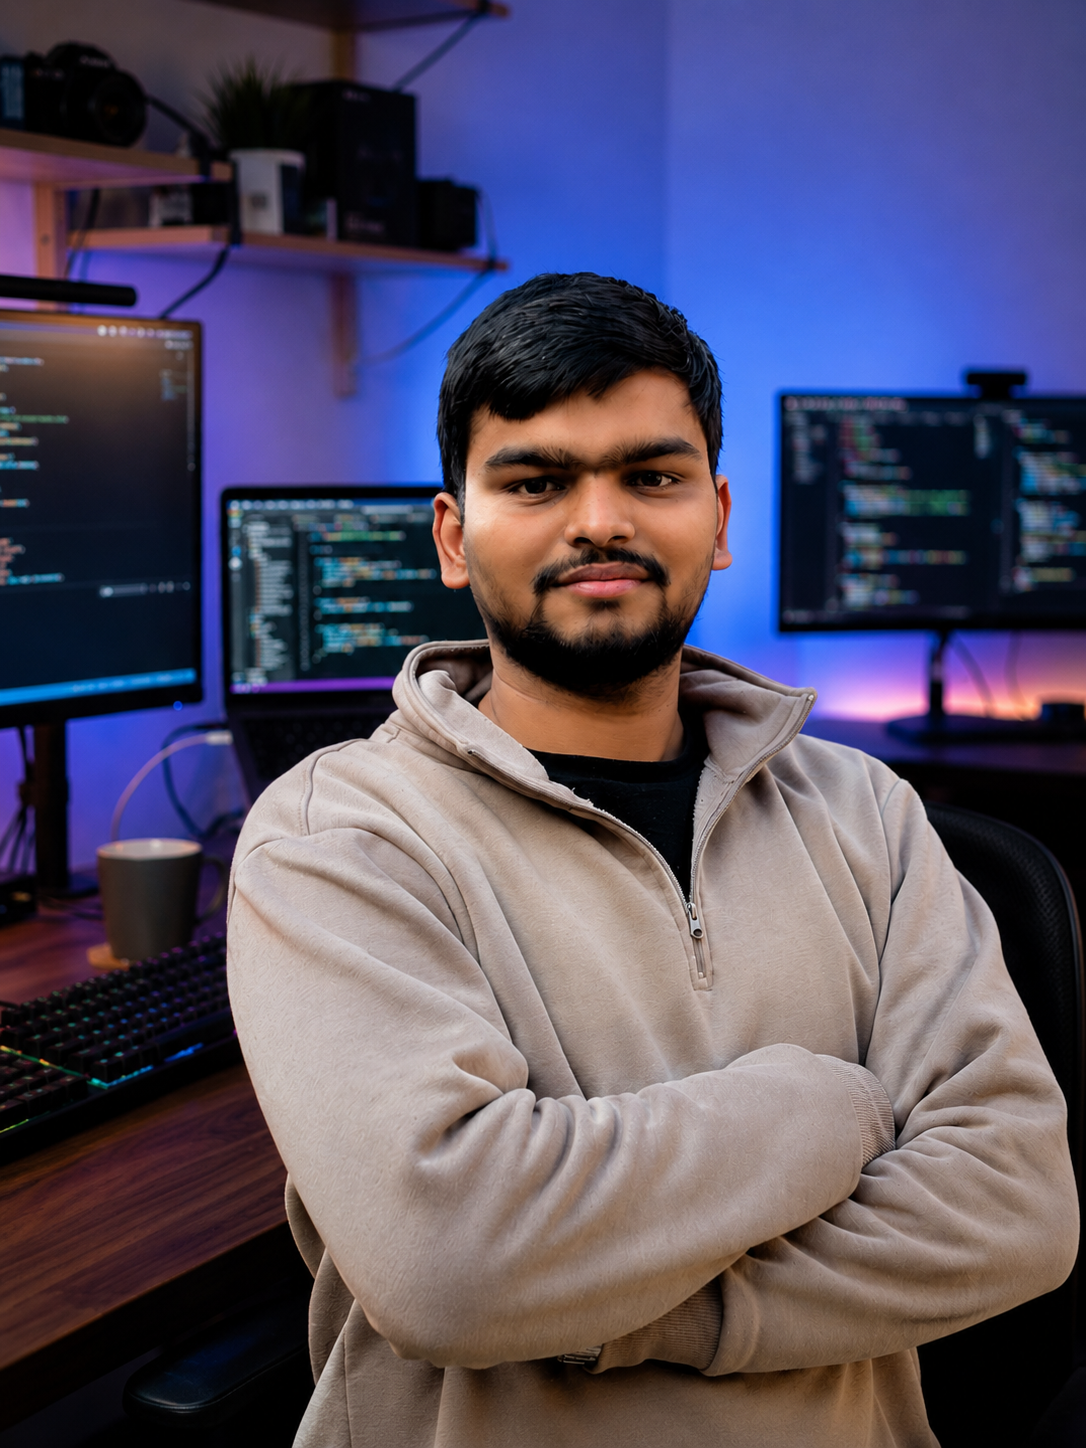
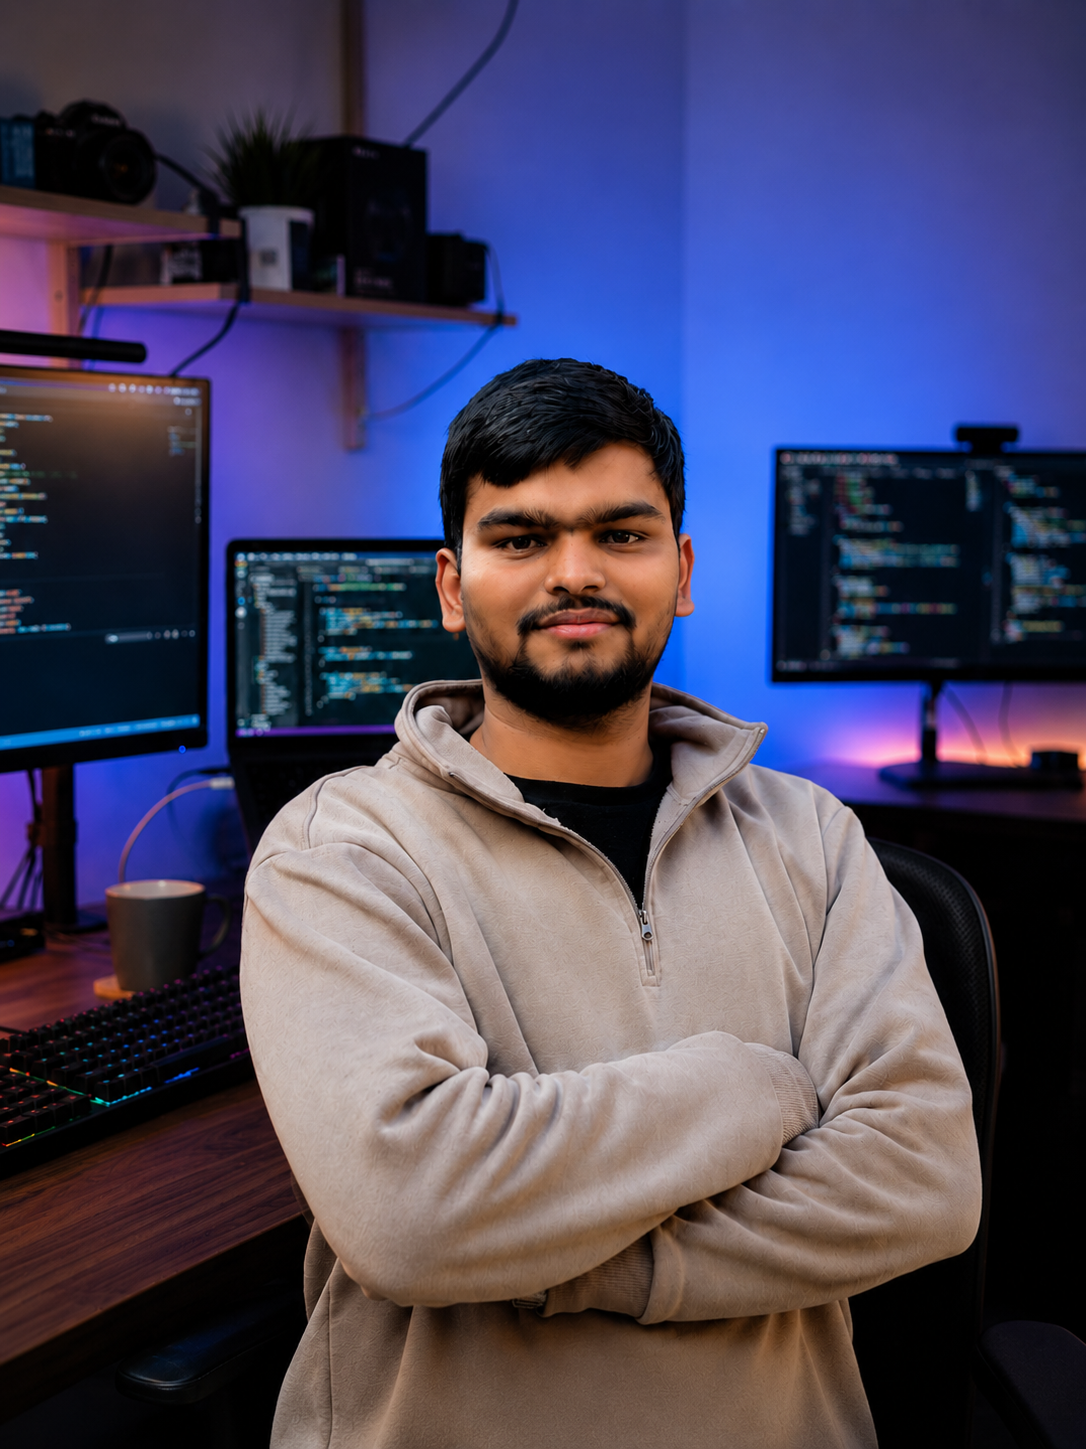
Update portfolio content and UI improvements

diff --git a/src/components/Hero.jsx b/src/components/Hero.jsx
@@ -2,7 +2,8 @@ import React, { useState, useEffect } from 'react';
 import { motion } from 'framer-motion';
 import { ArrowRight, Download } from 'lucide-react';
 import ParticleBackground from './ParticleBackground';
-
+import { SiLeetcode } from "react-icons/si";
+import { FaLinkedinIn } from "react-icons/fa";
 const ROLES = ["SAP Trainee", "Full Stack Developer", "Problem Solver"];
 
 export default function Hero() {
@@ -71,24 +72,45 @@ export default function Hero() {
             </span>
           </h2>
           <p className="text-base sm:text-lg text-slate-600 dark:text-slate-400 max-w-xl mb-8 leading-relaxed">
-            A technology enthusiast working at the intersection of enterprise solutions and modern web technologies. I specialize in SAP systems and Full Stack web applications, bridging data and design to create high-impact products.
+            I'm a passionate Full Stack Developer focused on creating modern, scalable, and user-centric digital solutions. My expertise spans web application development, AI-powered automation, and enterprise technologies, enabling me to build products that are both technically robust and visually engaging. I enjoy solving real-world problems through clean architecture, efficient code, and innovative thinking, turning ideas into impactful experiences that drive business and user success.
           </p>
 
-          <div className="flex flex-col sm:flex-row gap-4">
-            <button
-              onClick={handleScrollToProjects}
-              className="px-6 py-3.5 bg-blue-600 hover:bg-blue-500 text-white font-medium rounded-xl flex items-center justify-center gap-2 transition-all shadow-lg shadow-blue-500/25 hover:shadow-blue-500/35 cursor-pointer"
-            >
-              View Projects <ArrowRight size={18} />
-            </button>
-            <a
-              href="/Sahil_Kumar_Resume.pdf"
-              download="Sahil_Kumar_Resume.pdf"
-              className="px-6 py-3.5 glass hover:bg-slate-100 dark:hover:bg-slate-900 border border-slate-200 dark:border-slate-800 text-slate-700 dark:text-slate-200 font-medium rounded-xl flex items-center justify-center gap-2 transition-all cursor-pointer"
-            >
-              Download Resume <Download size={18} />
-            </a>
-          </div>
+         <div className="flex flex-wrap gap-3">
+  <button
+    onClick={handleScrollToProjects}
+    className="px-5 py-3 bg-blue-600 hover:bg-blue-500 text-white font-medium rounded-xl flex items-center justify-center gap-2 transition-all shadow-lg shadow-blue-500/25 hover:shadow-blue-500/35 cursor-pointer whitespace-nowrap"
+  >
+    View Projects <ArrowRight size={16} />
+  </button>
+
+  <a
+    href="https://www.linkedin.com/in/YOUR_USERNAME"
+    target="_blank"
+    rel="noopener noreferrer"
+    className="px-5 py-3 bg-[#0A66C2]/10 border border-[#0A66C2]/50 text-[#0A66C2] hover:bg-[#0A66C2] hover:text-white font-medium rounded-xl flex items-center justify-center gap-2 transition-all duration-300 hover:-translate-y-1 hover:shadow-lg hover:shadow-[#0A66C2]/30 cursor-pointer whitespace-nowrap"
+  >
+    <FaLinkedinIn size={16} />
+    LinkedIn
+  </a>
+
+  <a
+    href="https://leetcode.com/u/sahil_0905/"
+    target="_blank"
+    rel="noopener noreferrer"
+    className="px-5 py-3 bg-[#FFA116]/10 border border-[#FFA116]/50 text-[#FFA116] hover:bg-[#FFA116] hover:text-black font-medium rounded-xl flex items-center justify-center gap-2 transition-all duration-300 hover:-translate-y-1 hover:shadow-lg hover:shadow-[#FFA116]/30 cursor-pointer whitespace-nowrap"
+  >
+    <SiLeetcode size={16} />
+    LeetCode
+  </a>
+
+  <a
+    href="/resume.pdf"
+    download="resume.pdf"
+    className="px-5 py-3 glass hover:bg-slate-100 dark:hover:bg-slate-900 border border-slate-200 dark:border-slate-800 text-slate-700 dark:text-slate-200 font-medium rounded-xl flex items-center justify-center gap-2 transition-all cursor-pointer whitespace-nowrap"
+  >
+    Resume <Download size={16} />
+  </a>
+</div>
         </motion.div>
 
         {/* Right profile graphic section */}
@@ -107,7 +129,7 @@ export default function Hero() {
  <img
   src="/profile.png"
   alt="Sahil Kumar Profile Photo"
-  className="w-full h-full object-cover scale-90 object-center transition-transform duration-700 group-hover:scale-95"
+  className="w-full h-full object-cover scale-90 object-center transition-transform duration-700 "
 /> 
 </div>
             

diff --git a/src/components/Footer.jsx b/src/components/Footer.jsx
@@ -40,17 +40,17 @@ export default function Footer() {
   };
 
   return (
-    <footer className="relative py-12 border-t border-slate-200/10 dark:border-slate-800/10 overflow-hidden">
+    <footer className="relative py-12 pt-16 border-t border-slate-200/10 dark:border-slate-800/10">
       
       {/* Scroll to top button */}
-      <div className="absolute top-0 left-1/2 -translate-x-1/2 -translate-y-1/2">
+     <div className="absolute left-1/2 -top-6 -translate-x-1/2 z-[9999]">
         <button
-          onClick={handleScrollToTop}
-          className="p-3 bg-blue-600 text-white rounded-full shadow-lg shadow-blue-500/25 hover:bg-blue-500 hover:shadow-blue-500/35 transition-all cursor-pointer"
-          aria-label="Scroll to Top"
-        >
-          <ArrowUp size={18} />
-        </button>
+  onClick={handleScrollToTop}
+  className="p-3 bg-blue-600 text-white rounded-full shadow-lg shadow-blue-500/25 hover:bg-blue-500 hover:shadow-blue-500/35 transition-all cursor-pointer"
+  aria-label="Scroll to Top"
+>
+  <ArrowUp size={18} />
+</button>
       </div>
 
       <div className="max-w-7xl mx-auto px-6 flex flex-col md:flex-row items-center justify-between gap-6">
@@ -68,14 +68,14 @@ export default function Footer() {
         {/* Social Quick Links */}
         <div className="flex items-center gap-4">
           <a
-            href="mailto:[email redacted]"
+            href="mailto:[email redacted]"
             className="p-2 bg-slate-100 hover:bg-slate-200 dark:bg-slate-900 dark:hover:bg-slate-800 text-slate-600 dark:text-slate-400 rounded-lg border border-slate-200/20 dark:border-slate-800/20 transition-all cursor-pointer"
             aria-label="Email Address"
           >
             <Mail size={18} />
           </a>
           <a
-            href="https://linkedin.com"
+            href="https://www.linkedin.com/in/sahil-kumar-3345a328a/"
             target="_blank"
             rel="noopener noreferrer"
             className="p-2 bg-slate-100 hover:bg-slate-200 dark:bg-slate-900 dark:hover:bg-slate-800 text-slate-600 dark:text-slate-400 rounded-lg border border-slate-200/20 dark:border-slate-800/20 transition-all cursor-pointer"
@@ -84,7 +84,7 @@ export default function Footer() {
             <Linkedin size={18} />
           </a>
           <a
-            href="https://github.com"
+            href="https://github.com/sahil-0905"
             target="_blank"
             rel="noopener noreferrer"
             className="p-2 bg-slate-100 hover:bg-slate-200 dark:bg-slate-900 dark:hover:bg-slate-800 text-slate-600 dark:text-slate-400 rounded-lg border border-slate-200/20 dark:border-slate-800/20 transition-all cursor-pointer"

diff --git a/src/components/About.jsx b/src/components/About.jsx
@@ -55,11 +55,11 @@ export default function About() {
                 Professional Summary
               </h3>
               <p className="text-slate-600 dark:text-slate-400 leading-relaxed mb-6">
-                I am a passionate software developer eager to bridge the gap between robust enterprise systems and modern web designs. Currently pursuing specialized SAP training, I love developing responsive web interfaces and full-stack solutions. 
+               A motivated and enthusiastic Software Developer with a passion for Full Stack Development, AI technologies, and enterprise applications. Experienced in building responsive web applications and solving real-world problems through clean, scalable, and efficient code. Committed to continuous learning and creating innovative digital solutions that enhance user experiences.
               </p>
-              <p className="text-slate-600 dark:text-slate-400 leading-relaxed">
+              {/* <p className="text-slate-600 dark:text-slate-400 leading-relaxed">
                 With a background in Computer Science, I bring a solid understanding of data structures, database designs, and system architectures, allowing me to build efficient, scalable application pipelines.
-              </p>
+              </p> */}
             </div>
 
             <div className="glass-card p-8 rounded-2xl text-left border border-slate-200/50 dark:border-slate-800/50 bg-blue-500/[0.02] dark:bg-blue-500/[0.01]">
@@ -67,7 +67,7 @@ export default function About() {
                 Career Objective
               </h3>
               <p className="text-slate-600 dark:text-slate-400 leading-relaxed">
-                To leverage my competencies in SAP and Full-Stack development to engineer premium solutions that optimize enterprise efficiency and enrich client-side experiences. I aim to grow continuously, collaborate with diverse teams, and solve complex business problems.
+                Seeking opportunities to apply my technical knowledge and development skills in a dynamic environment where I can contribute to impactful projects, grow as a software professional, and help organizations achieve their goals through innovative technology solutions.
               </p>
             </div>
           </motion.div>

diff --git a/src/components/Contact.jsx b/src/components/Contact.jsx
@@ -40,7 +40,7 @@ const CONTACT_CARDS = [
     icon: Mail,
     label: 'Email Me',
     value: '[email redacted]',
-    link: '[email redacted]',
+    link: 'mailto:[email redacted]',
   },
   {
     icon: Phone,
@@ -153,7 +153,7 @@ const handleSubmit = async (e) => {
 };
 
   return (
-    <section id="contact" className="py-24 relative overflow-hidden bg-slate-500/[0.01]">
+    <section id="contact" className="py-24 relative  bg-slate-500/[0.01]">
       <div className="max-w-7xl mx-auto px-6 relative z-10">
         
         {/* Section Heading */}